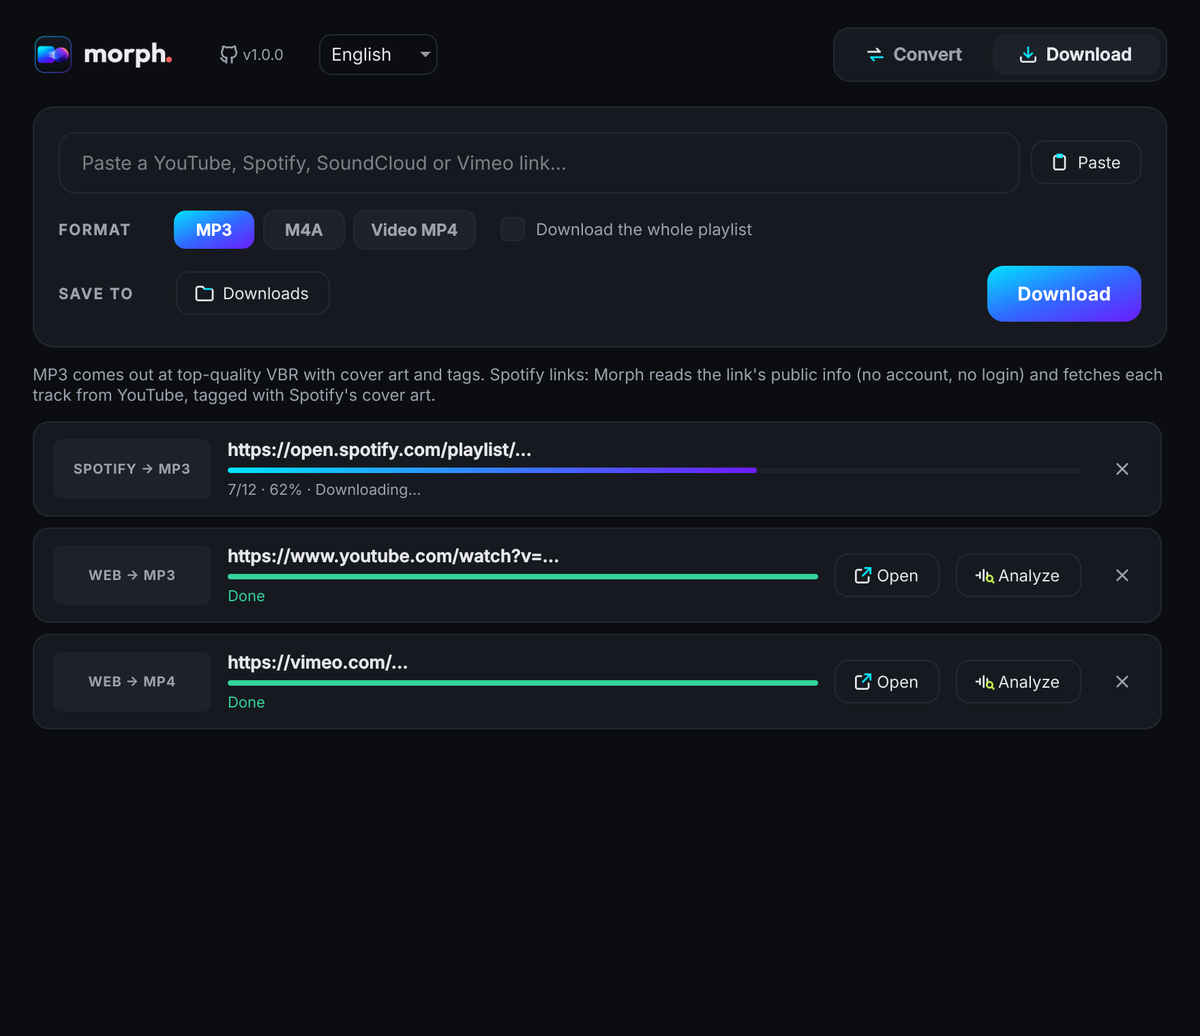
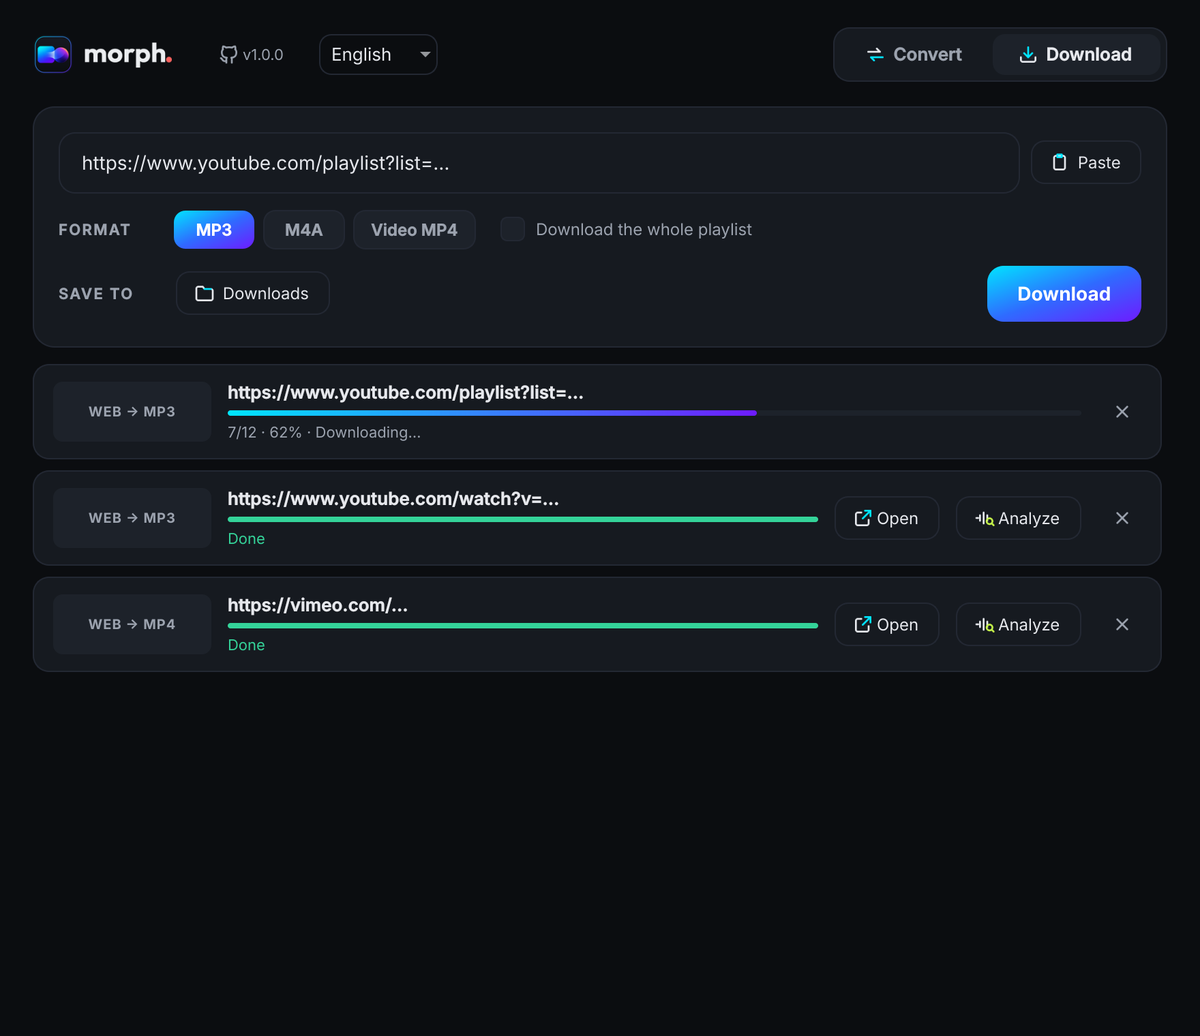
Docs: focus the README on conversion and yt-dlp downloads
Claude-Session: https://claude.ai/code/session_01JkYkX4eTBRUcsRQ6FYarA9

diff --git a/README.md b/README.md
@@ -8,7 +8,7 @@
 <h3 align="center">Convert and download audio and video. Any format. Simple.</h3>
 
 <p align="center">
-  A format converter for Windows that also downloads from YouTube, Spotify links and 1000+ sites.<br>
+  A format converter for Windows that also downloads from YouTube and 1000+ sites.<br>
   Drop a file, pick a format, done. FFmpeg is built in; there is nothing to set up.
 </p>
 
@@ -43,11 +43,6 @@
 
 **Download**
 - **YouTube, SoundCloud, Vimeo and 1000+ sites** through [yt-dlp](https://github.com/yt-dlp/yt-dlp), as **MP3** with cover art and tags, **M4A** or **MP4 video**. Whole playlists work too.
-- **Spotify links** (tracks, albums and public playlists):
-  - Morph reads the link's **public** information: **no account, no login, no API key**.
-  - Each track is matched on YouTube, favoring the right duration and the official channel.
-  - Files get **Spotify's tags and cover art**.
-  - Paste the same playlist again and Morph skips what you already have and fills in any missing covers.
 
 **Built to work with [Oído](https://github.com/stgermanrobert/oido)**
 - Every finished file has an **Analyze** button that opens it in Oído, its sister app, to see the spectrogram and the **real quality**: how much YouTube trimmed off, for instance.

diff --git a/CHANGELOG.md b/CHANGELOG.md
@@ -13,10 +13,6 @@ First public release.
 
 ### Download
 - Downloads from YouTube and 1000+ sites through yt-dlp: MP3 with cover art and tags, M4A or MP4 video, playlists included.
-- Spotify links (tracks, albums, public playlists) using public information only:
-  - matched on YouTube by duration and official channel;
-  - Spotify tags and cover art;
-  - fills in missing cover art when a playlist is downloaded again.
 
 ### Integration
 - "Analyze" button that opens any result in Oído.
